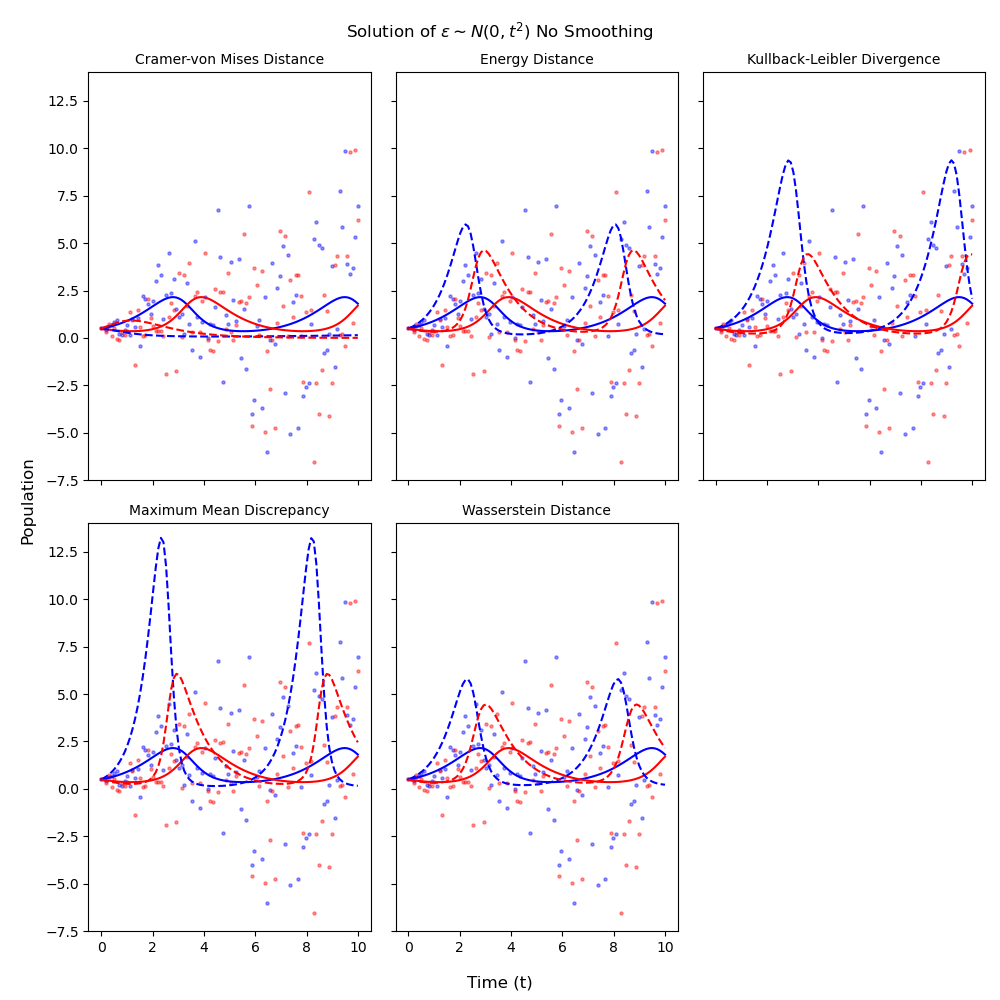
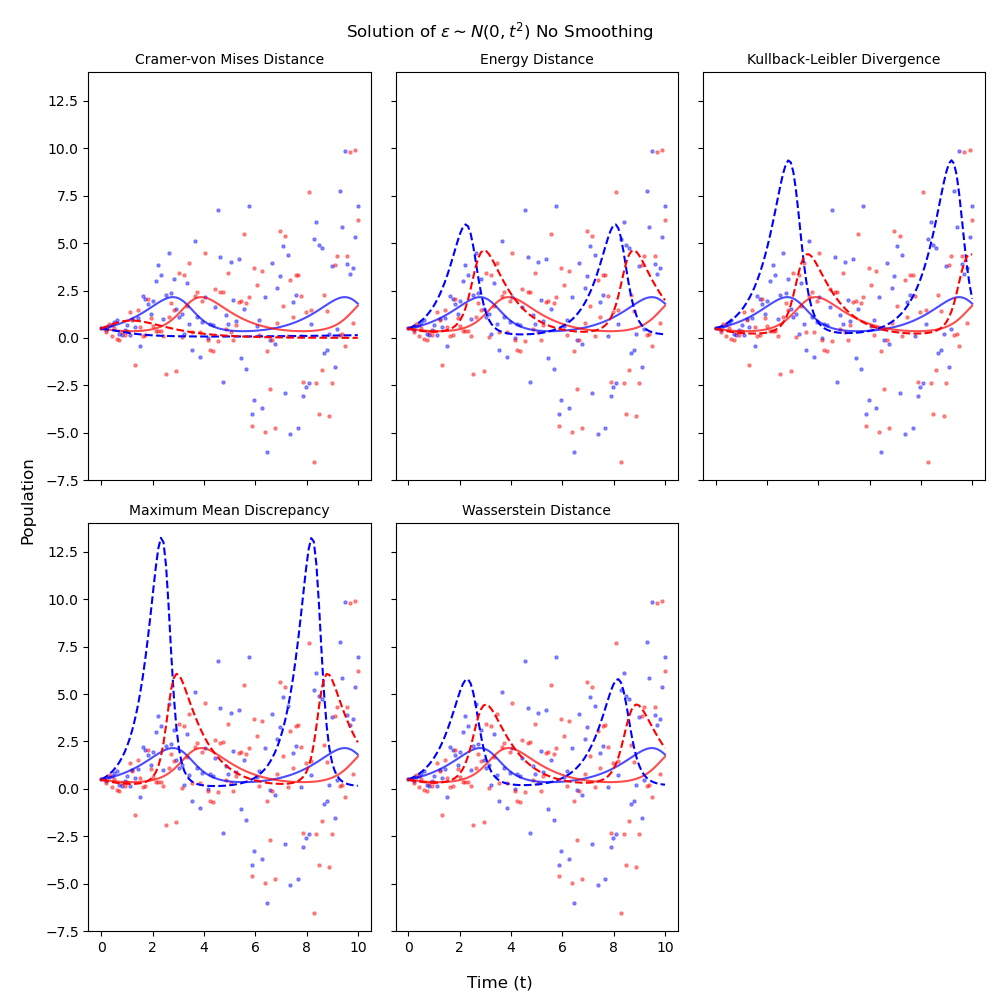
changed alpha for true curves in solution plot.

diff --git a/lotka_volterra/all_solution_plot.py b/lotka_volterra/all_solution_plot.py
@@ -38,10 +38,10 @@ for model in os.listdir(OBSERVED_PATH):
         beta = params[1]
         S0 = (0.5, 0.5) # Initial Conditions
         sol = odeint(dUdt, S0, t, args=(alpha, beta)) # Solving the ODEs
-        ax[i].scatter(t, observed[:,0], s=5, c="blue", label="Prey w/Noise", alpha=0.4)
-        ax[i].scatter(t, observed[:,1], s=5, c="red", label="Predator w/Noise", alpha=0.4)
-        ax[i].plot(t, true_curve[:,0], c="blue", label="True Prey")
-        ax[i].plot(t, true_curve[:,1], c="red", label="True Predator")
+        ax[i].scatter(t, observed[:,0], s=5, c="blue", label="Observed Prey", alpha=0.4)
+        ax[i].scatter(t, observed[:,1], s=5, c="red", label="Observed Predator", alpha=0.4)
+        ax[i].plot(t, true_curve[:,0], c="blue", label="True Prey", alpha=0.7)
+        ax[i].plot(t, true_curve[:,1], c="red", label="True Predator", alpha=0.7)
         ax[i].set_title(metric, fontsize=10)
         ax[i].plot(t, sol[:,0], c="blue", linestyle = "--", label="Simulated Prey")
         ax[i].plot(t, sol[:,1], c="red", linestyle = "--", label="Simulated Predator")
